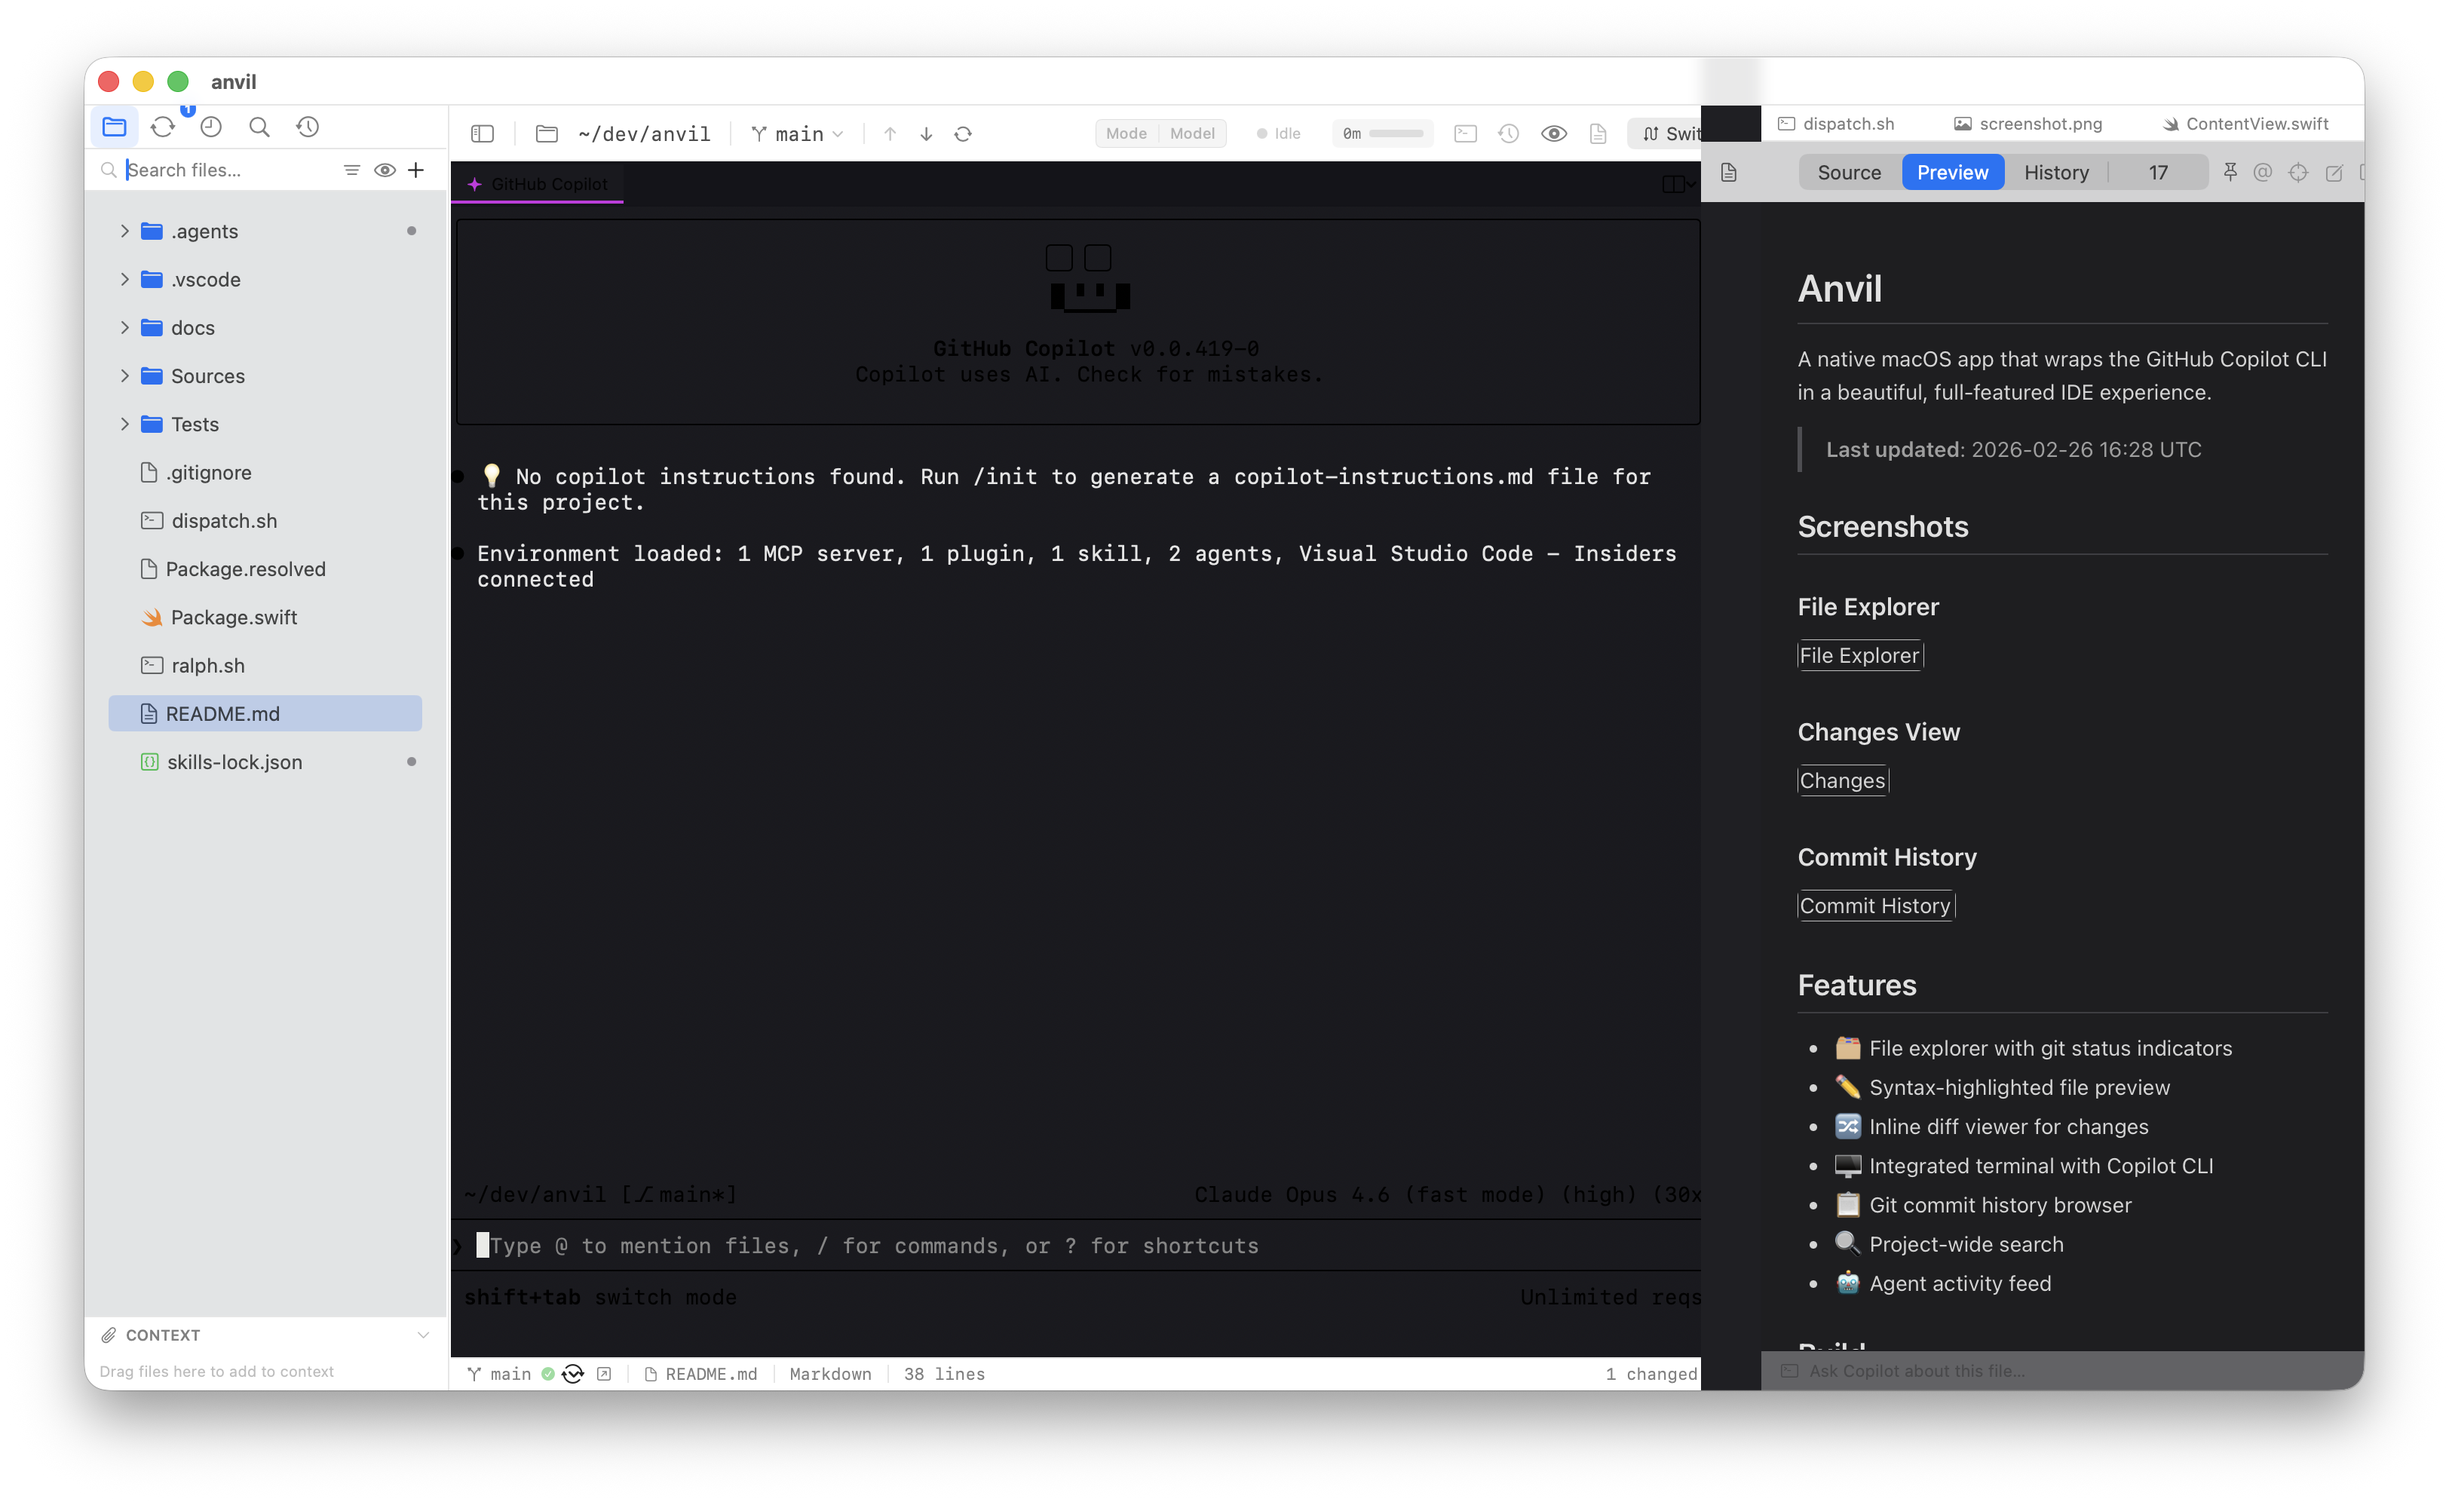
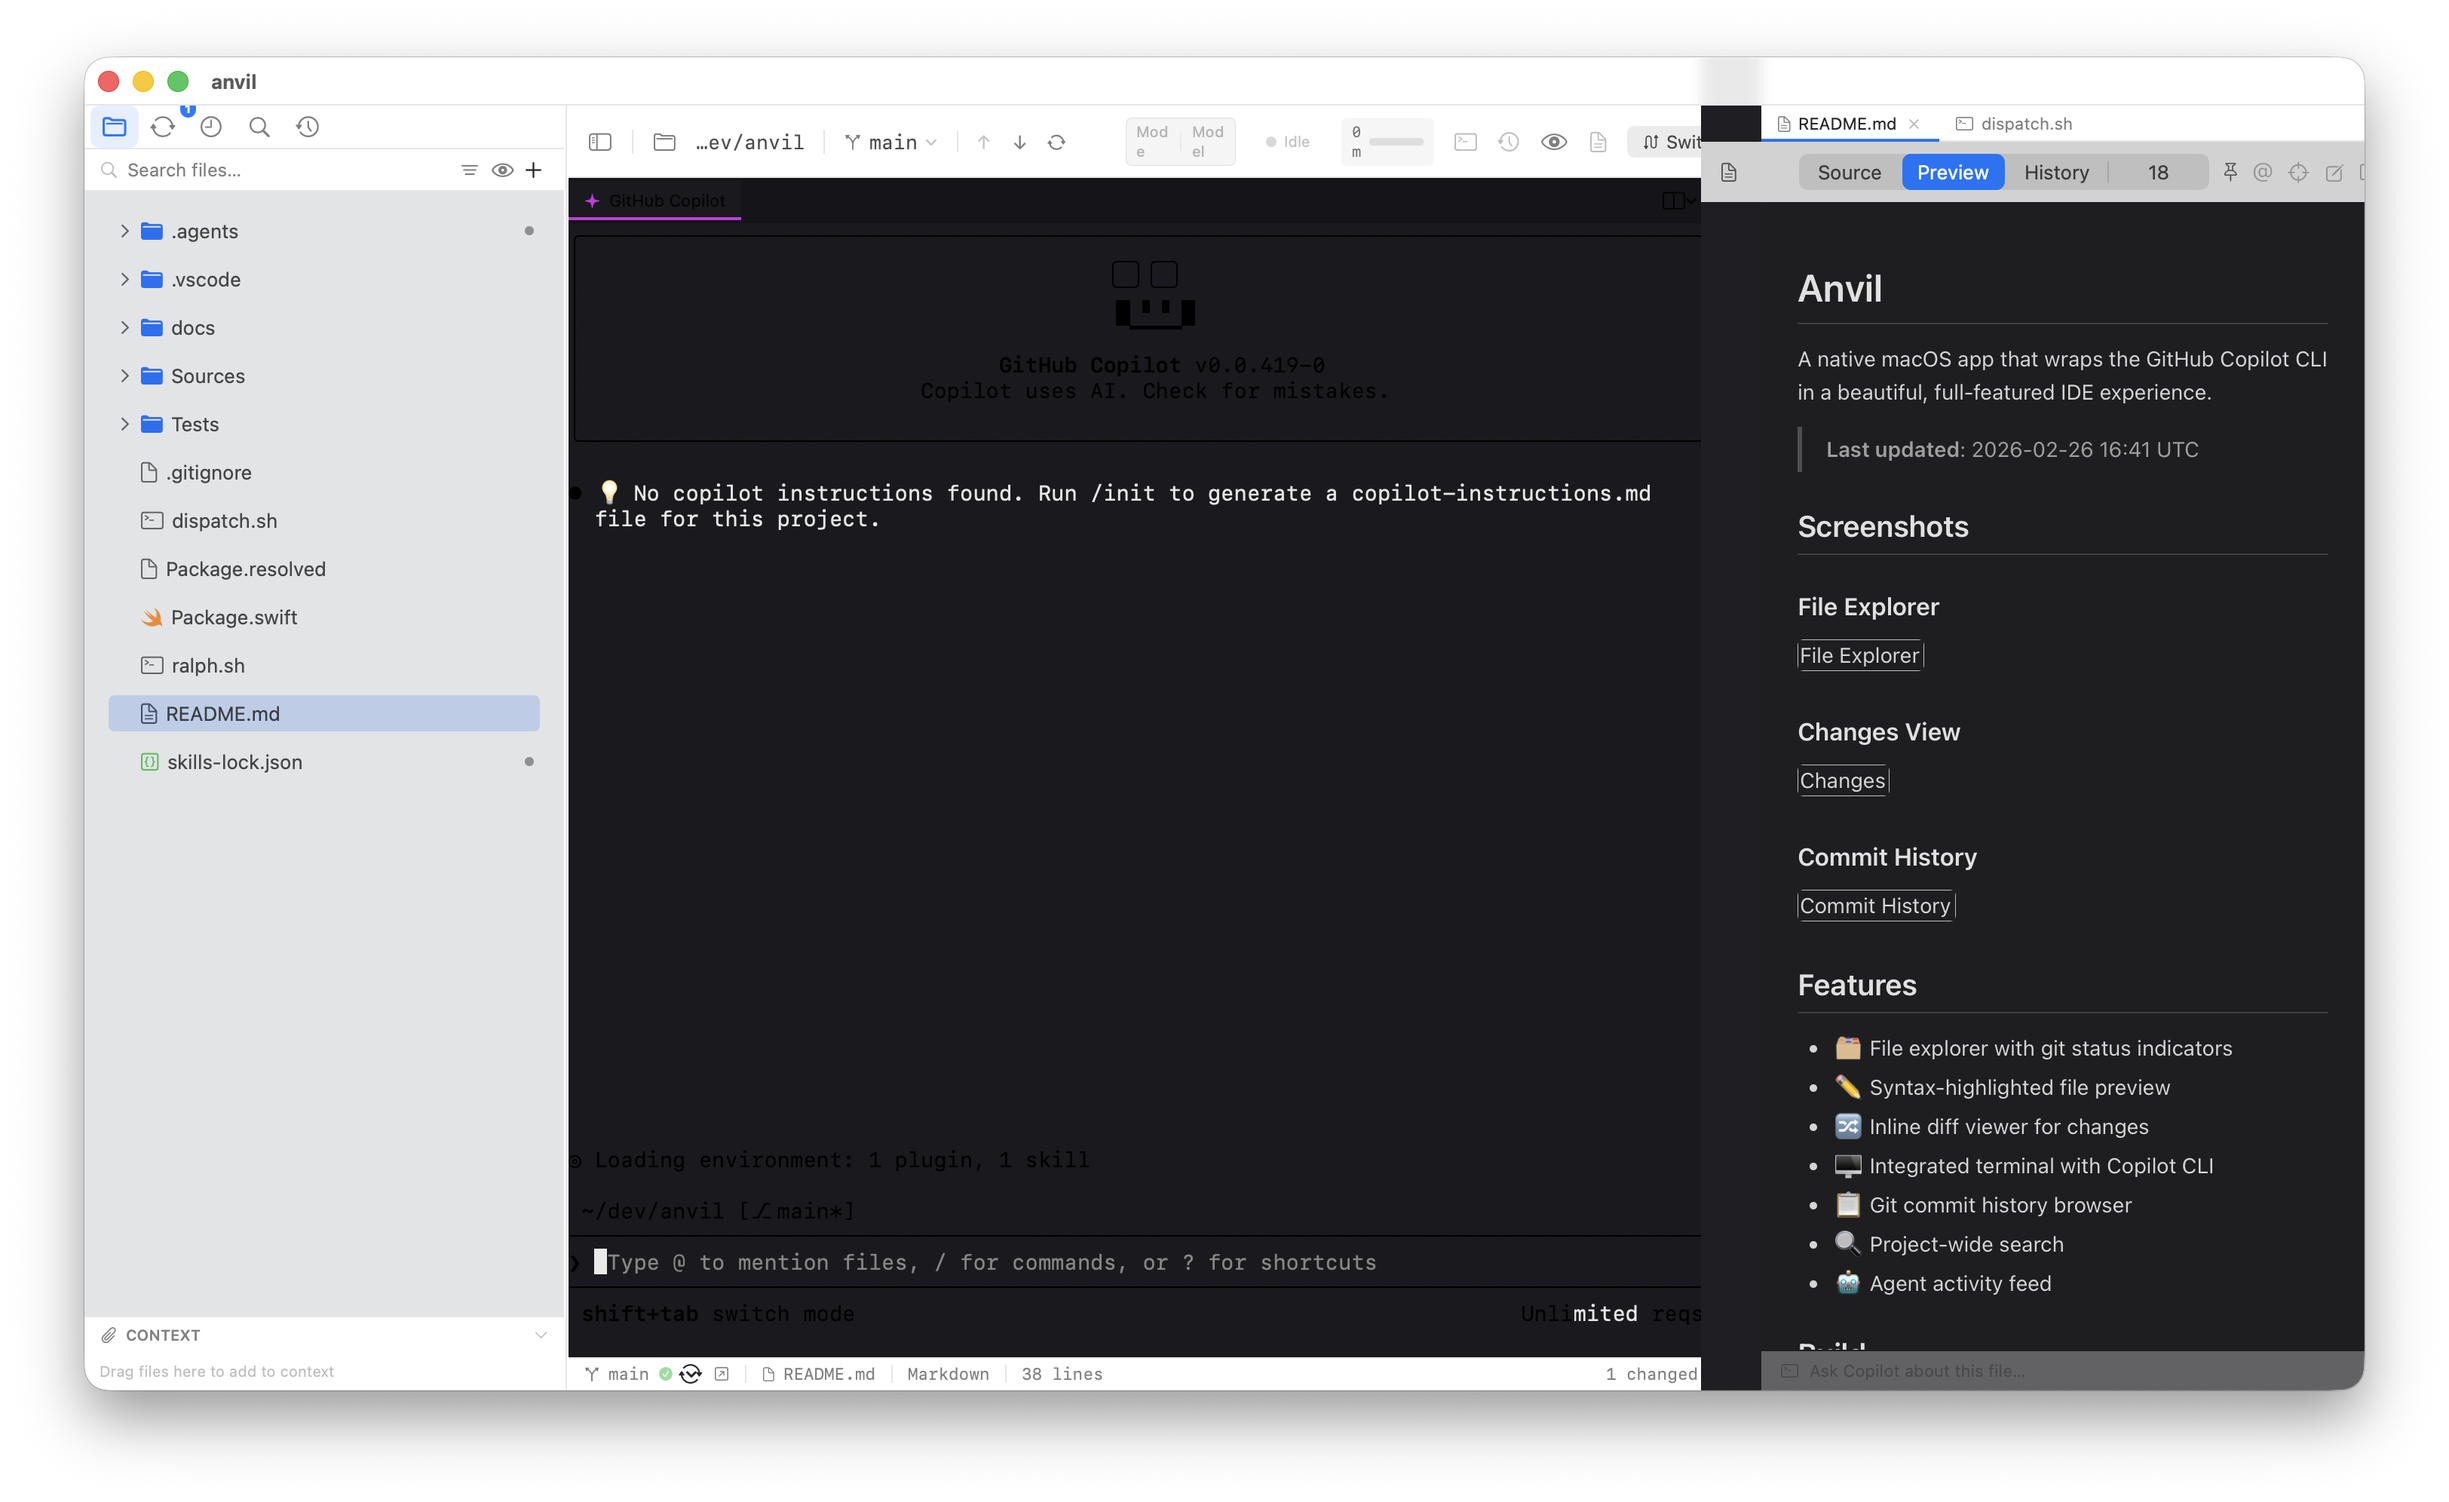
docs: update app screenshots and README (2026-02-26 17:13 UTC)

diff --git a/README.md b/README.md
@@ -2,7 +2,7 @@
 
 A native macOS app that wraps the GitHub Copilot CLI in a beautiful, full-featured IDE experience.
 
-> **Last updated**: 2026-02-26 16:41 UTC
+> **Last updated**: 2026-02-26 17:13 UTC
 
 ## Screenshots
 
